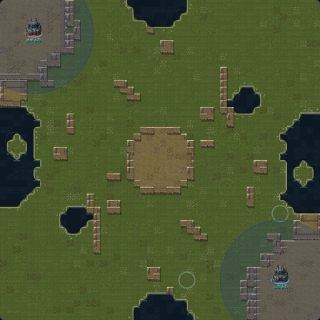
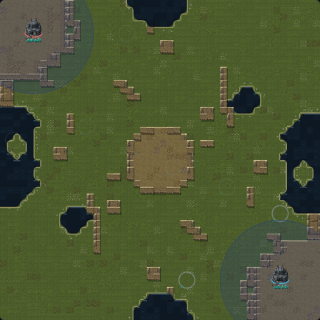
라운드 13 — 램프 4타일 확장: 방어 건물 봉쇄로 본진이 섬 되는 문제
실전 2인 플레이 보고 수정. 2타일 램프는 방어 건물 하나의 충돌 반경으로
완전 봉쇄됐다. 양 맵 램프를 4타일(2부대 동시 통과)로 확장 — 실측: 18기
뭉치 본진 파괴 60초→20초, 램프 방벽은 4초에 뚫림. MAP_RULES 램프 규칙을
최소 4타일로 개정, 로비 맵 썸네일 재생성. 테스트 66개 통과.

Claude-Session: https://claude.ai/code/session_01NexbDPSAtwGDSwo3StwTsK

diff --git a/packages/shared/src/arena.ts b/packages/shared/src/arena.ts
@@ -85,11 +85,14 @@ const WALL_RECTS: readonly (readonly [number, number, number, number])[] = [
   [8, 8, 8, 9],
   [6, 10, 6, 11],
   [6, 12, 7, 12],
-  [0, 12, 3, 12],
+  // 램프 x2~5 — 4타일(2부대 동시 통과). 2타일이었을 때는 방어 건물
+  // 하나(충돌 반경 ~2타일)로 입구가 완전 봉쇄돼 본진이 섬이 됐다
+  // (실전 2인 플레이에서 관측 — 라운드 13)
+  [0, 12, 1, 12],
   //    앞마당 뒷길 봉쇄 — 주머니 벽과 서쪽 바다를 절벽으로 잇는다.
   //    로스트템플 문법: 앞마당은 정면(벌판) 한쪽으로만 열린다
-  [0, 13, 3, 14],
-  [0, 15, 2, 15],
+  [0, 13, 1, 14],
+  [0, 15, 1, 15],
 
   // ── 중앙 고원 — 팔각 블롭 테두리. 변의 가운데만 뚫린 램프 ──
   [20, 20, 20, 20],
@@ -237,9 +240,9 @@ function riftWaters(): Rect[] {
 }
 
 const RIFT_WALLS: readonly Rect[] = [
-  // ── 북동 본진 주머니 — 서쪽 램프 하나 (37, 3~4) ──
-  [37, 0, 37, 2],
-  [37, 5, 37, 8],
+  // ── 북동 본진 주머니 — 서쪽 램프 하나 (37, 2~5 · 4타일 폭) ──
+  [37, 0, 37, 1],
+  [37, 6, 37, 8],
   [38, 8, 41, 8],
   [42, 9, 44, 9],
   [45, 9, 47, 9],

diff --git a/docs/MAP_RULES.md b/docs/MAP_RULES.md
@@ -48,7 +48,7 @@
 
 - 본진은 **고지 주머니** 안에 있고 출구(램프)는 하나다 — 초반에 지킬 수
   있어야 확장할 엄두가 난다
-- 램프 폭 2~3타일. 1타일이면 유닛이 낑기고, 4타일이면 램프가 아니다
+- 램프 폭 **4타일** — 2부대가 동시에 지난다. 2타일이면 방어 건물 하나(충돌 반경 ~2타일)로 완전 봉쇄돼 본진이 섬이 된다 (라운드 13 실전 관측)
 - 주머니 벽은 직선 한 줄이 아니라 **짧은 조각을 계단처럼 어긋나게** — 능선처럼 보인다
 
 ## 4. 확장 사슬
